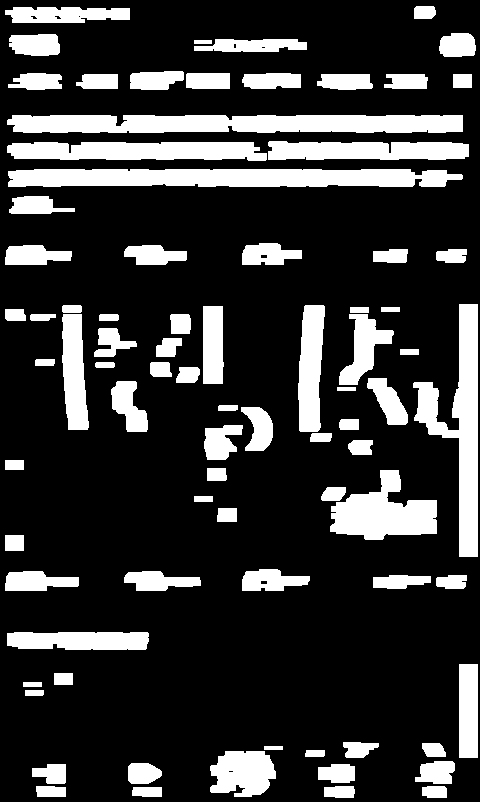
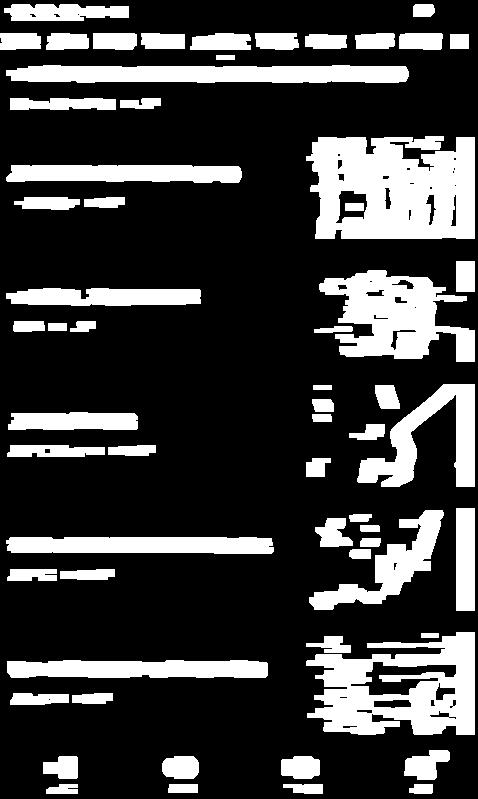
@home

diff --git a/text_line.py b/text_line.py
@@ -45,24 +45,24 @@ class Detect(object):
         if self._font_size == 15:
             erosion_rect = cv2.getStructuringElement(cv2.MORPH_RECT, (24, 7))
             dilation_rect = cv2.getStructuringElement(cv2.MORPH_RECT, (18, 4))
-            dilation2_rect = cv2.getStructuringElement(cv2.MORPH_RECT, (18, 4))
+            # dilation2_rect = cv2.getStructuringElement(cv2.MORPH_RECT, (18, 4))
         elif self._font_size == 18:
             erosion_rect = cv2.getStructuringElement(cv2.MORPH_RECT, (24, 7))
             dilation_rect = cv2.getStructuringElement(cv2.MORPH_RECT, (18, 4))
-            dilation2_rect = cv2.getStructuringElement(cv2.MORPH_RECT, (18, 4))
+            # dilation2_rect = cv2.getStructuringElement(cv2.MORPH_RECT, (18, 4))
         else:  # self._font_size == 24:
             erosion_rect = cv2.getStructuringElement(cv2.MORPH_RECT, (30, 9))
             dilation_rect = cv2.getStructuringElement(cv2.MORPH_RECT, (24, 6))
-            dilation2_rect = cv2.getStructuringElement(cv2.MORPH_RECT, (24, 6))
+            # dilation2_rect = cv2.getStructuringElement(cv2.MORPH_RECT, (24, 6))
 
         # 膨胀一次，让轮廓突出
         dilation = cv2.dilate(binary, dilation_rect, iterations=1)
 
-        # 腐蚀一次，去掉细节，如表格线等。注意这里去掉的是竖直的线
+        # 腐蚀一次，去掉细节，如表格线等。去掉的是竖直的线
         erosion = cv2.erode(dilation, erosion_rect, iterations=1)
 
-        # 再次膨胀，让轮廓明显一些
-        dilation2 = cv2.dilate(erosion, dilation2_rect, iterations=3)
+        # 再次膨胀，轮廓明显
+        # dilation2 = cv2.dilate(erosion, dilation2_rect, iterations=3)
 
         if self._DEBUG:
             cv2.namedWindow("binary", self.window_flags)
@@ -242,8 +242,8 @@ if __name__ == '__main__':
     # image_path = 'test_image/text_line/baidu{}.png'.format(4)  # bug: 6
     # image_path = 'test_image/text_line/shouhu{}.png'.format(7)
     # image_path = 'test_image/text_line/sina{}.png'.format(4)  # bug:4
-    image_path = 'test_image/text_line/163_{}.png'.format(3)  # bug: 6 7
-    # image_path = 'test_image/text_line/ifeng{}.png'.format(3)  # bug:3
+    # image_path = 'test_image/text_line/163_{}.png'.format(5)  # bug: 6 7
+    image_path = 'test_image/text_line/ifeng{}.png'.format(3)  # bug:3  font_size=15
     start = datetime.now()
     d = Detect(font_size=18)
     d._DEBUG = True
